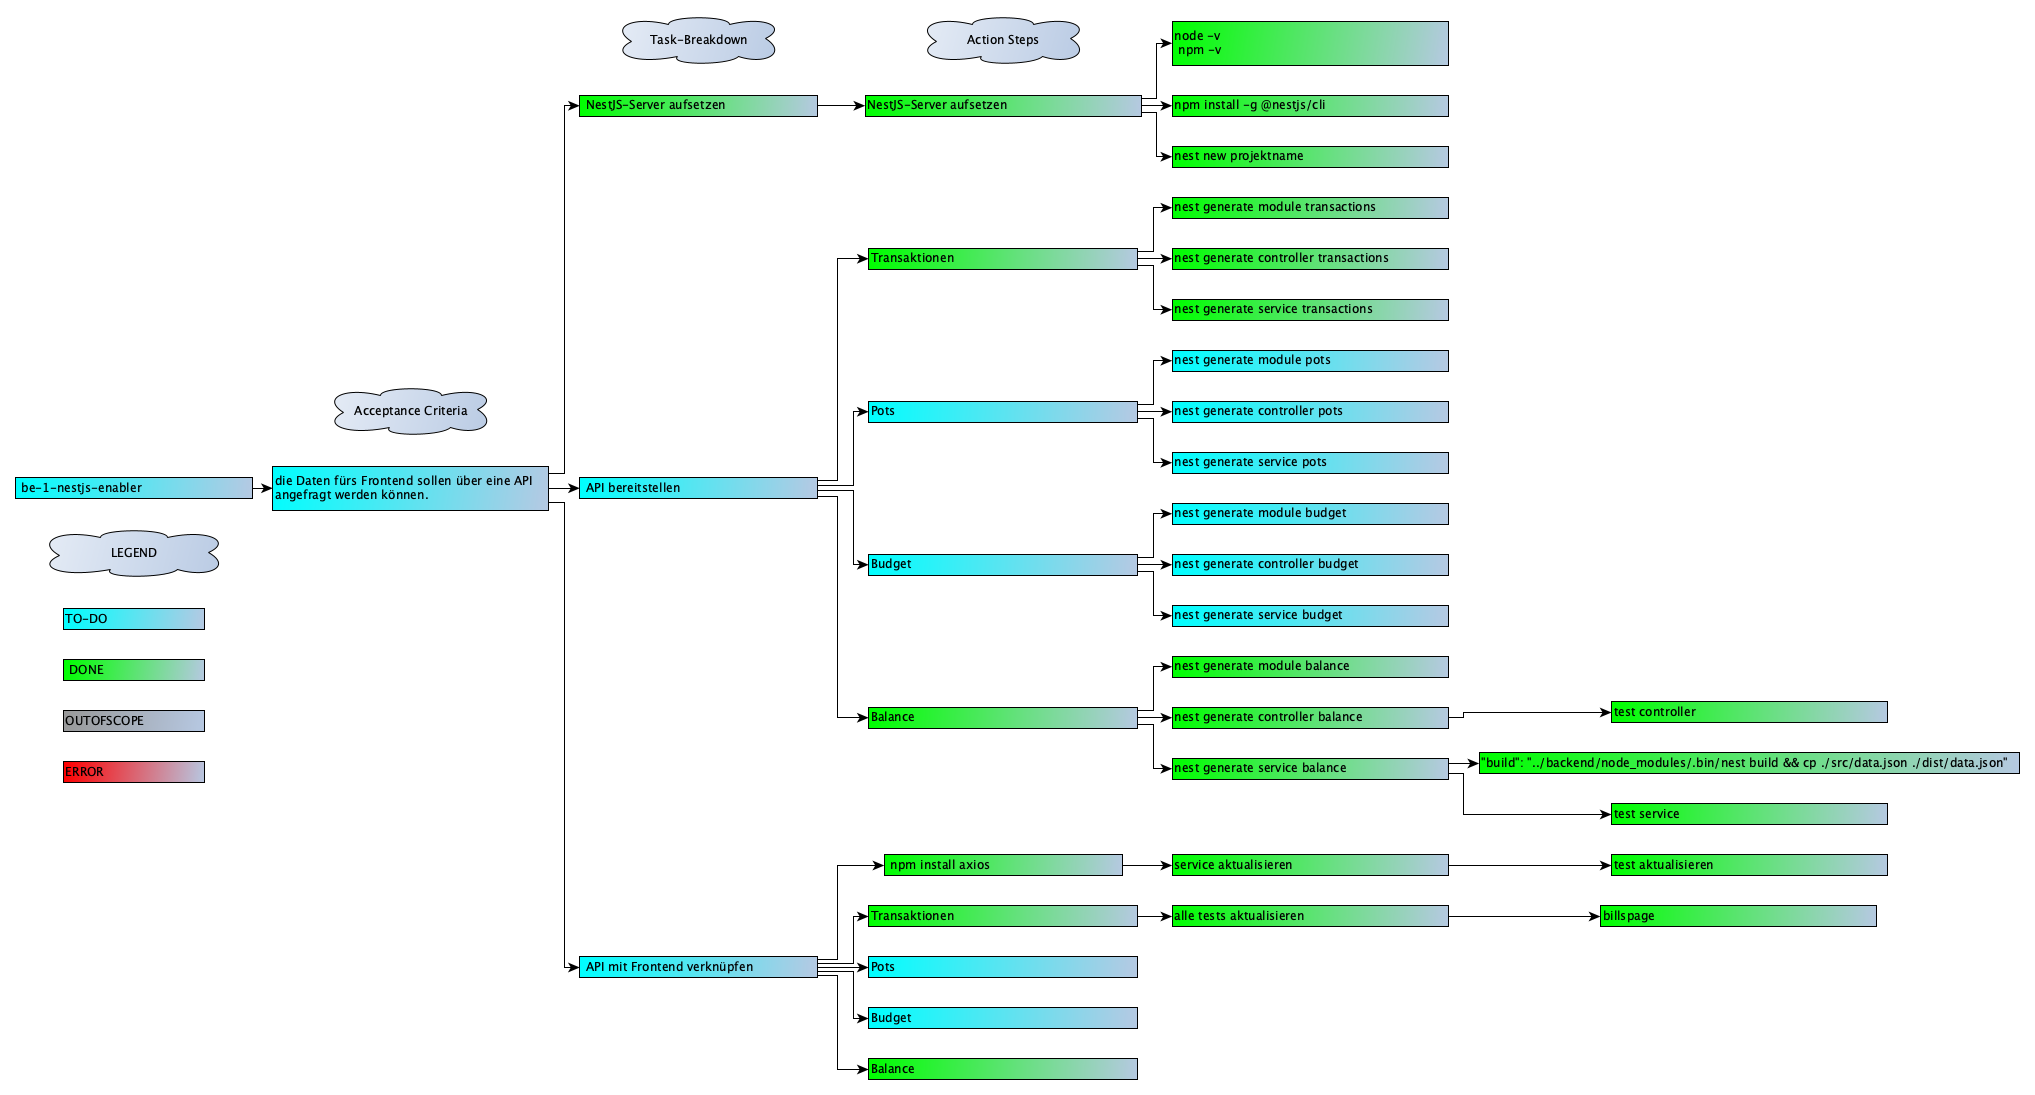
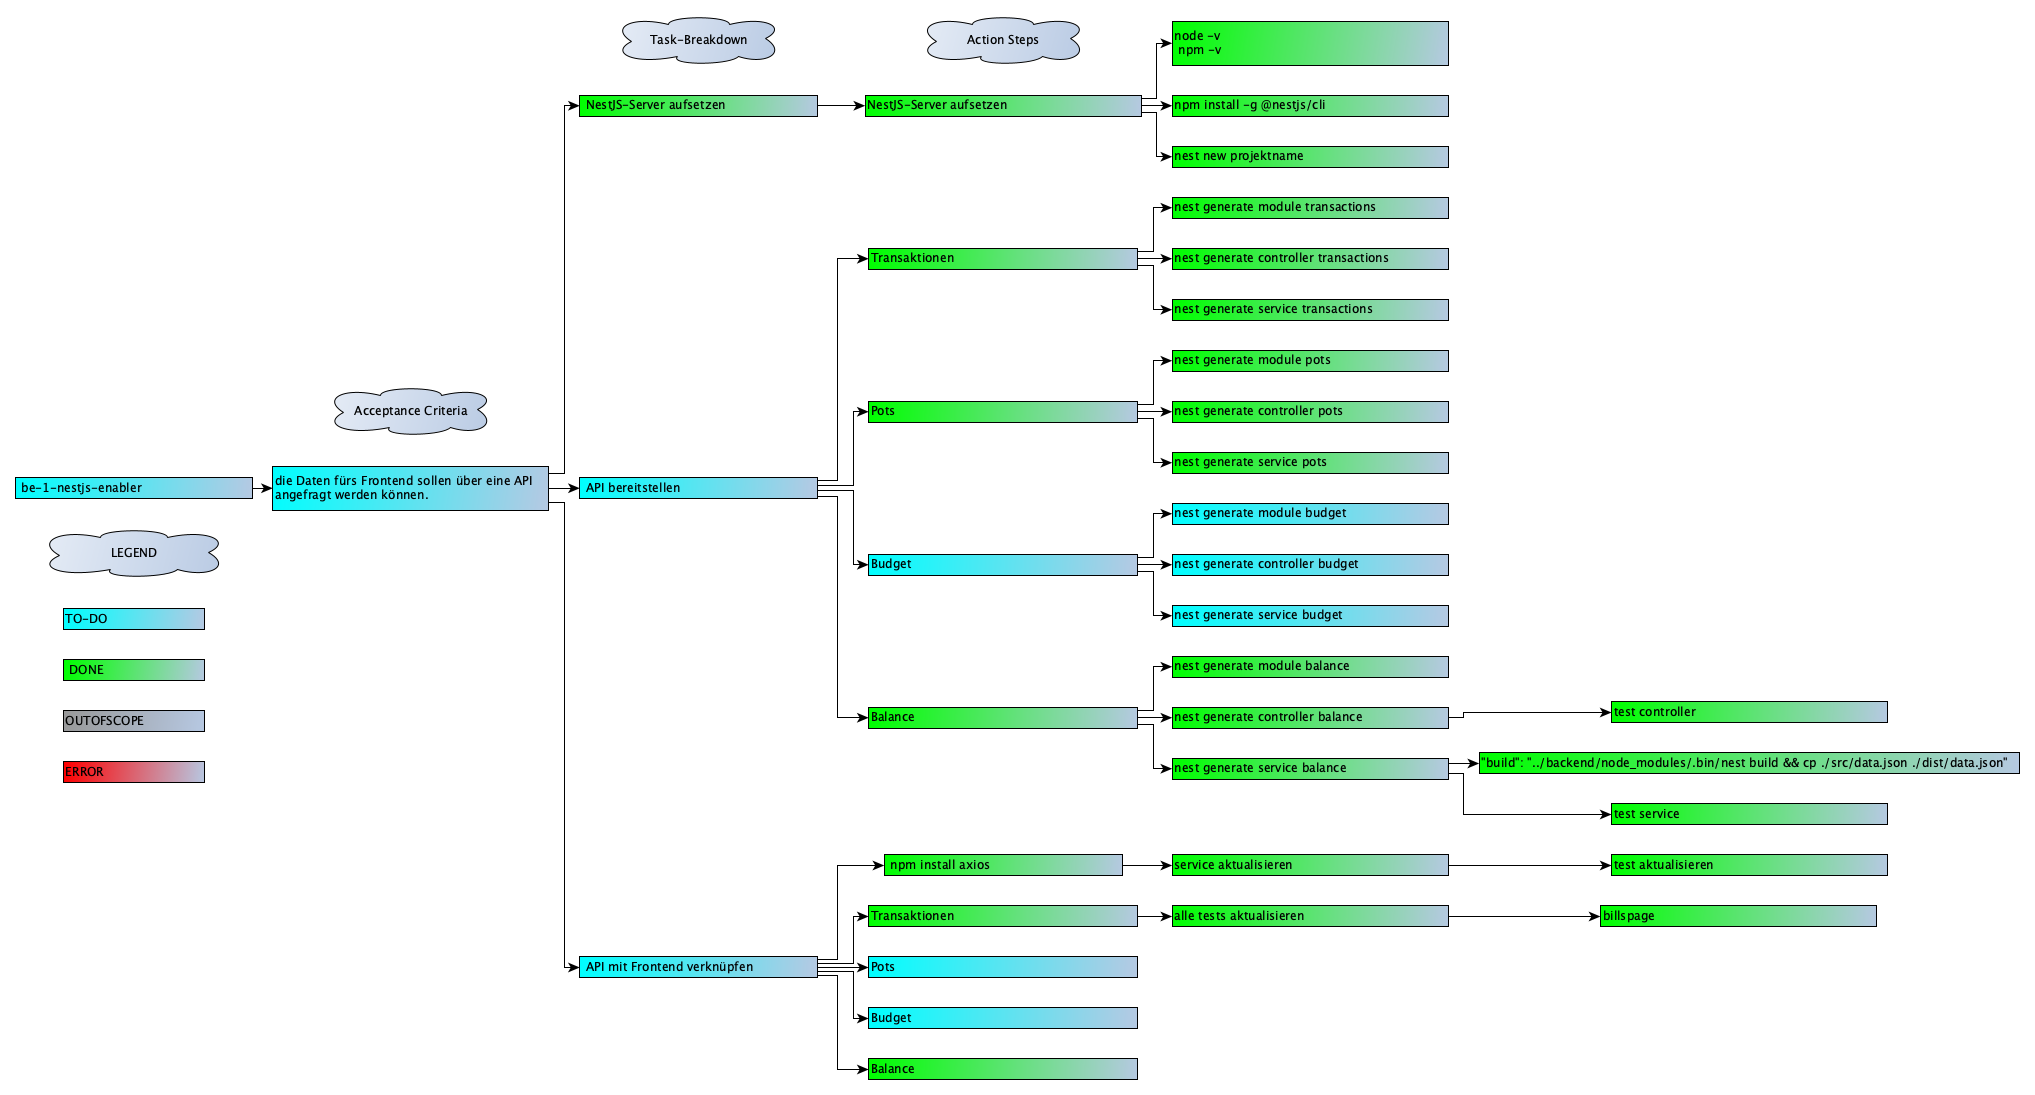
be-1 add pots api

Changed region(s): [[0.4334, 0.3105, 0.712, 0.4347]]

diff --git a/backend/src/pots/pots.controller.spec.ts b/backend/src/pots/pots.controller.spec.ts
@@ -1,0 +1,59 @@
+import { Test, TestingModule } from '@nestjs/testing';
+import { PotsController } from './pots.controller';
+import { PotsService } from './pots.service';
+
+jest.mock('./pots.service', () => ({
+  PotsService: jest.fn().mockImplementation(() => ({
+    getPots: jest.fn(),
+  })),
+}));
+
+const mockedPots = [
+  {
+    name: 'Savings',
+    target: 2000.0,
+    total: 159.0,
+    theme: '#277C78',
+  },
+  {
+    name: 'Concert Ticket',
+    target: 150.0,
+    total: 110.0,
+    theme: '#626070',
+  },
+];
+
+describe('PotsController', () => {
+  let controller: PotsController;
+  let potsService: PotsService;
+
+  beforeEach(async () => {
+    const module: TestingModule = await Test.createTestingModule({
+      controllers: [PotsController],
+      providers: [PotsService],
+    }).compile();
+
+    potsService = module.get<PotsService>(PotsService);
+    (potsService.getPots as jest.Mock).mockReturnValue(mockedPots);
+
+    controller = module.get<PotsController>(PotsController);
+  });
+
+  it('should be defined', () => {
+    expect(controller).toBeDefined();
+  });
+
+  it('returns transactions', () => {
+    expect(controller.getPots()).toEqual(mockedPots);
+  });
+
+  it('throws if service call fails', () => {
+    (potsService.getPots as jest.Mock).mockImplementation(() => {
+      throw new Error('Service failure');
+    });
+
+    expect(() => controller.getPots()).toThrow(
+      'Fehler beim Abrufen der Pots: Error: Service failure',
+    );
+  });
+});

diff --git a/backend/src/pots/pots.service.spec.ts b/backend/src/pots/pots.service.spec.ts
@@ -1,0 +1,50 @@
+import { Test, TestingModule } from '@nestjs/testing';
+import { PotsService } from './pots.service';
+import * as path from 'node:path';
+import * as fs from 'node:fs';
+
+describe('PotsService', () => {
+  let service: PotsService;
+
+  const mockedPots = [
+    {
+      name: 'Savings',
+      target: 2000.0,
+      total: 159.0,
+      theme: '#277C78',
+    },
+    {
+      name: 'Concert Ticket',
+      target: 150.0,
+      total: 110.0,
+      theme: '#626070',
+    },
+  ];
+
+  const mockedPotsDTO = {
+    pots: mockedPots,
+  };
+
+  const mockedPotsDTOJson = JSON.stringify(mockedPotsDTO);
+
+  beforeEach(async () => {
+    jest
+      .spyOn(path, 'join')
+      .mockReturnValue('/mocked/path/to/transactions.data.json');
+    jest.spyOn(fs, 'readFileSync').mockReturnValue(mockedPotsDTOJson);
+
+    const module: TestingModule = await Test.createTestingModule({
+      providers: [PotsService],
+    }).compile();
+
+    service = module.get<PotsService>(PotsService);
+  });
+
+  it('should be defined', () => {
+    expect(service).toBeDefined();
+  });
+
+  it('returns pots', () => {
+    expect(service.getPots()).toEqual(mockedPots);
+  });
+});

diff --git a/backend/src/app.module.ts b/backend/src/app.module.ts
@@ -3,9 +3,10 @@ import { AppController } from './app.controller';
 import { AppService } from './app.service';
 import { BalanceModule } from './balance/balance.module';
 import { TransactionsModule } from './transactions/transactions.module';
+import { PotsModule } from './pots/pots.module';
 
 @Module({
-  imports: [BalanceModule, TransactionsModule],
+  imports: [BalanceModule, TransactionsModule, PotsModule],
   controllers: [AppController],
   providers: [AppService],
 })

diff --git a/backend/src/pots/pots.controller.ts b/backend/src/pots/pots.controller.ts
@@ -1,0 +1,17 @@
+import { Controller, Get } from '@nestjs/common';
+import { PotsService } from './pots.service';
+import { APIPotDTO } from '../model/APIPotDTO';
+
+@Controller('pots')
+export class PotsController {
+  constructor(private readonly potsService: PotsService) {}
+
+  @Get()
+  getPots(): APIPotDTO[] {
+    try {
+      return this.potsService.getPots();
+    } catch (error) {
+      throw new Error(`Fehler beim Abrufen der Pots: ${error}`);
+    }
+  }
+}

diff --git a/backend/src/pots/pots.service.ts b/backend/src/pots/pots.service.ts
@@ -1,0 +1,14 @@
+import { Injectable } from '@nestjs/common';
+import { APIPotDTO } from '../model/APIPotDTO';
+import * as path from 'node:path';
+import * as fs from 'node:fs';
+
+@Injectable()
+export class PotsService {
+  getPots(): APIPotDTO[] {
+    const filePath = path.join(__dirname, '../pots/pots.data.json');
+    const data = JSON.parse(fs.readFileSync(filePath, 'utf8'));
+    const { pots } = data;
+    return pots;
+  }
+}

diff --git a/backend/src/pots/pots.module.ts b/backend/src/pots/pots.module.ts
@@ -1,0 +1,9 @@
+import { Module } from '@nestjs/common';
+import { PotsController } from './pots.controller';
+import { PotsService } from './pots.service';
+
+@Module({
+  controllers: [PotsController],
+  providers: [PotsService],
+})
+export class PotsModule {}

diff --git a/backend/src/model/APIPotDTO.ts b/backend/src/model/APIPotDTO.ts
@@ -1,0 +1,6 @@
+export interface APIPotDTO {
+  name: string;
+  target: number;
+  total: number;
+  theme: string;
+}
